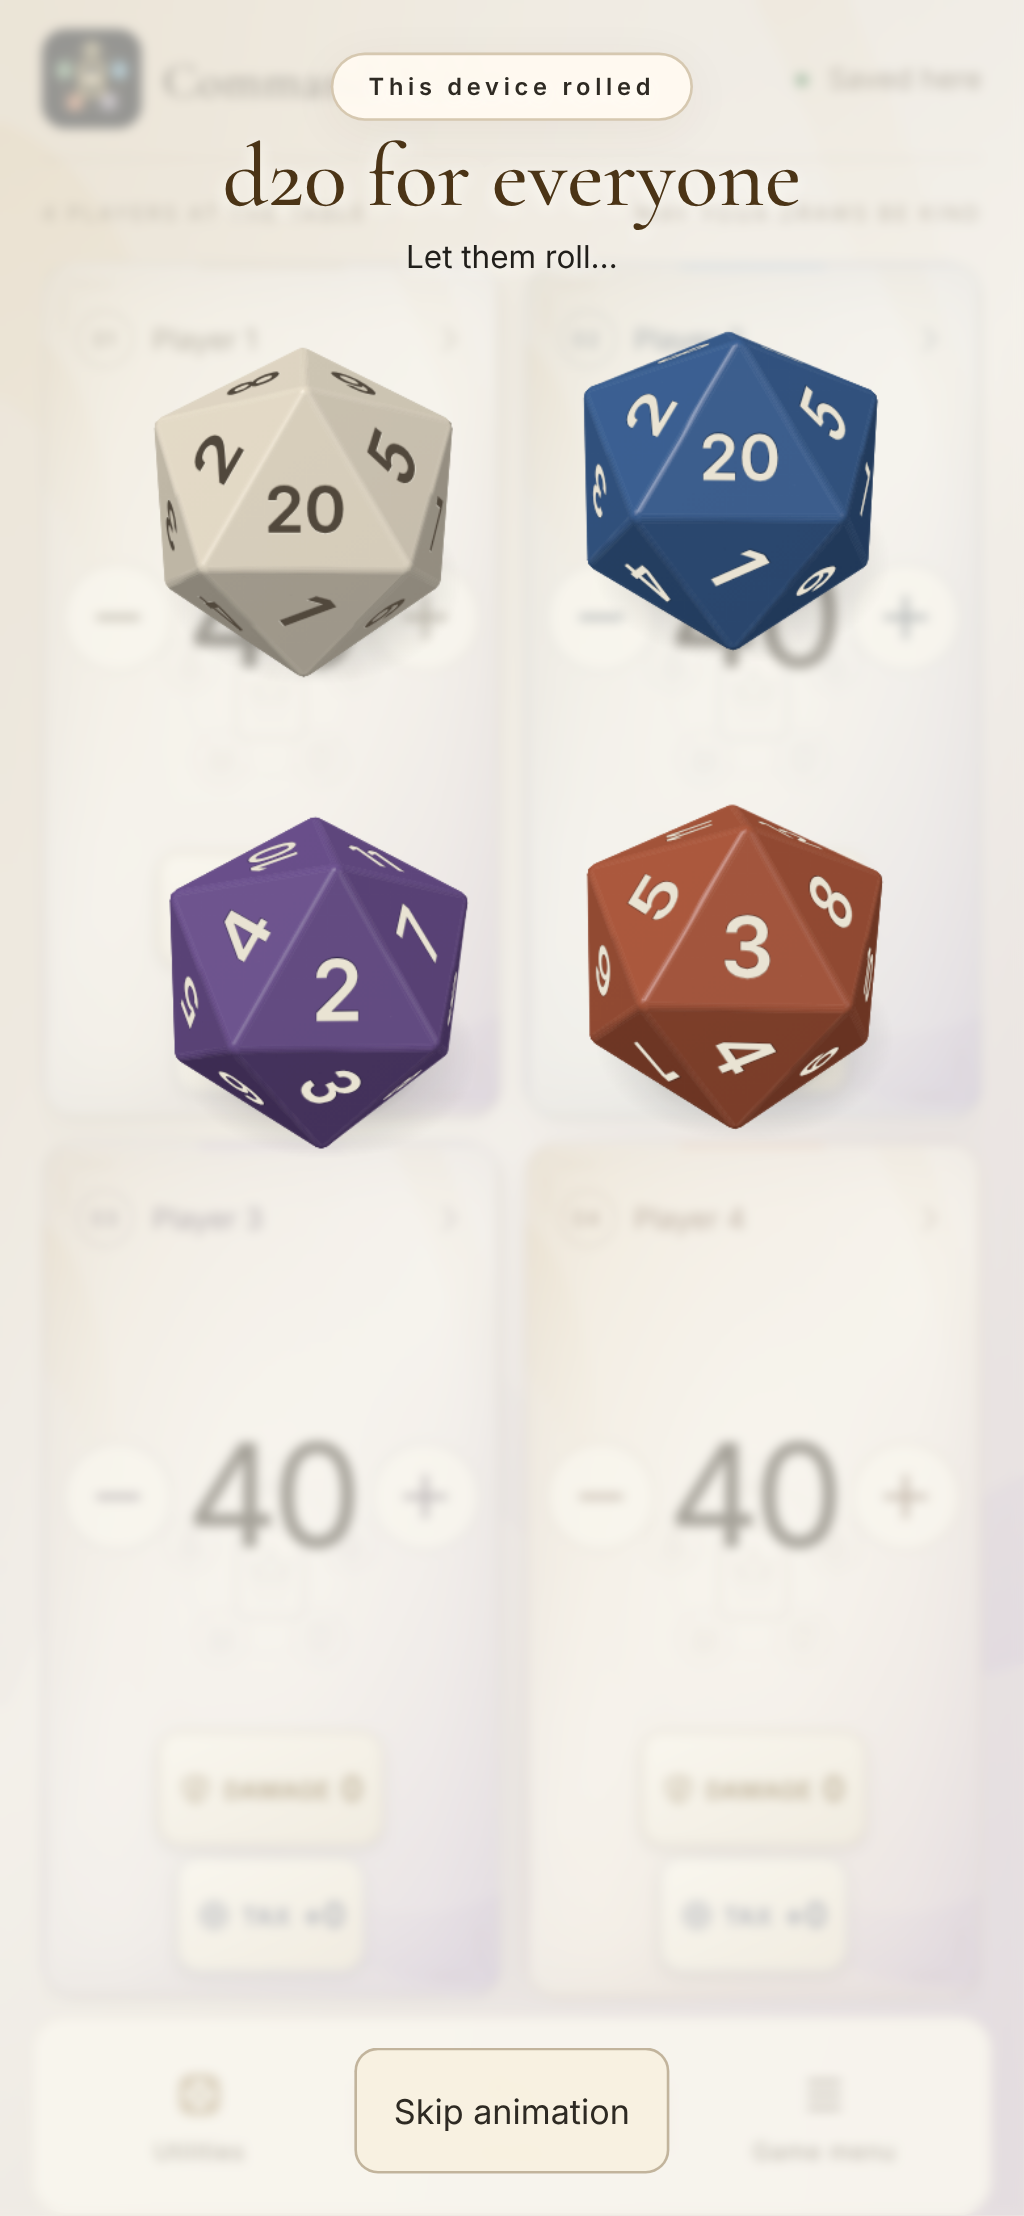
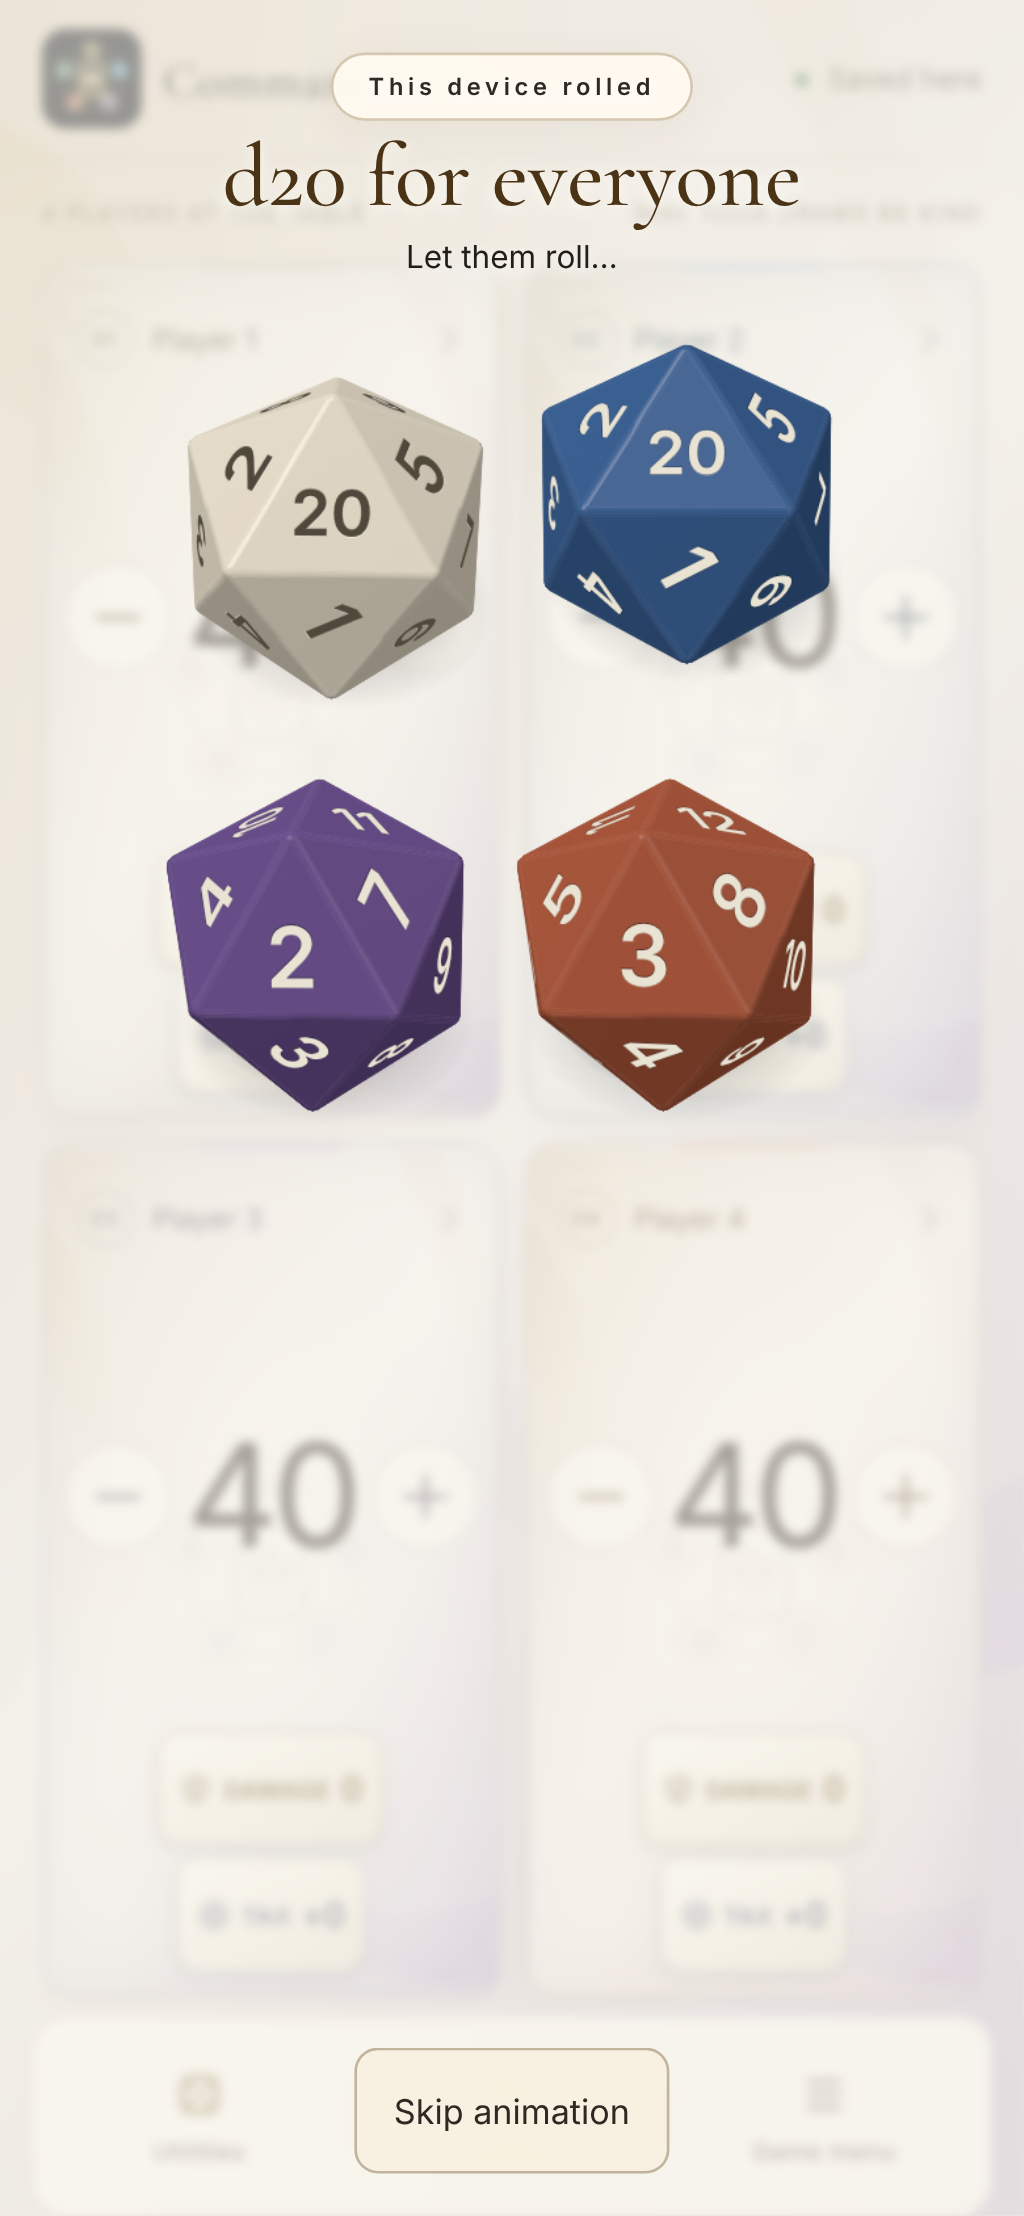
Document the second round of features
Claude-Session: https://claude.ai/code/session_0156PNCYR666aggbzWarFL9C

diff --git a/README.md b/README.md
@@ -100,15 +100,18 @@ Updates are applied when you run these commands or update through your Docker ma
 - **Planechase** (Utilities) builds one shared planar deck from every printed plane and phenomenon, or only the sets you pick: the classic Planechase cards, March of the Machine Commander, and Doctor Who. The current plane shows its art and full rules text, the **planar die** shows Blank, Chaos or Planeswalk and counts this turn's rolls so the next roll's cost is clear, and **Planeswalk** moves to the next plane. A chip on the board names the current plane. The host sets the deck up in a room; any seated player can roll and planeswalk. Rules text works offline; card art needs a connection.
 - **Optional trackers** (setup and Utilities) are off until the table wants them: per-player counters such as Energy, Experience, Rad, Tickets, The Ring and City’s blessing, or any name you type, plus the **Monarch**, **Initiative** and **Day and night** markers. A counter appears on a seat once it is above zero. In a room, players claim Monarch or Initiative for their own seat and the host can move or clear them.
 - **Utilities → Random opponent** picks one of the selected player's opponents still in the game, with the same saved-before-animation result as a die. **Utilities → Look up a card** reads any card by name or Scryfall link with its rules text and rulings.
-- **Record winner** (Game menu) saves who won, a team win, or a draw. The winner screen records it for you. **Playgroup stats** on Home and in the Game menu counts every finished game in this browser: games, wins and win rate per player and per commander, and average game length. Results can be corrected or removed, and the stats exported. Nothing leaves the browser.
-- **Saved players**: in a player's details, **Save to my regulars** keeps their name, color and commanders on this device. Pick a regular in setup or when joining a room to fill a seat in one tap; manage the list in Settings.
+- **Dungeons** (Utilities) keeps each player's place when they venture into the dungeon: **Lost Mine of Phandelver**, **Dungeon of the Mad Mage**, **Tomb of Annihilation**, and the **Undercity** for the initiative. Every room shows its rules text, the rooms you can move to next are marked, and completed dungeons are counted for the game. Players move their own marker in a room, and Undo steps back a room.
+- **Storm count & mana pool** (Utilities) is a scratchpad for a big turn: count spells cast for storm and track floating mana by color. It stays on your device, and with turn tracking on it clears itself when the turn passes.
+- **Life history** in a player's details lists that seat's life changes, newest first, with the time into the game.
+- **Record winner** (Game menu) saves who won, a team win, or a draw. The winner screen records it for you. **Playgroup stats** on Home and in the Game menu counts every finished game in this browser: games, wins and win rate per player and per commander, and average game length. Results can be corrected or removed, and the stats exported. **Import stats from another device** adds the games from an exported file without duplicating any already counted. Nothing leaves the browser.
+- **Saved players**: in a player's details, **Save to my regulars** keeps their name, color and commanders on this device. Pick a regular in setup or when joining a room to fill a seat in one tap; manage the list in Settings. In setup, **Shuffle seating** deals the players into a random seating order.
 - **Deck links**: paste a public **Archidekt** deck link in setup, when joining, or in player details to bring in its commander and artwork. Moxfield links are recognized, but Moxfield currently refuses automated readers, so the app says so and asks for the commander name instead.
 - **Seat background**: in player details, choose any card's art as that seat's background in place of the commander art (shared with the table), or a photo from this device (kept on this device only).
 - **Keyboard shortcuts** on a computer: **U** or **Ctrl+Z** undo, **N** next turn, **D** utilities, **M** game menu, **H** history, **?** settings, and **1–8** open a seat. They never fire while typing. The list is in Settings.
 - **New game** asks **One phone** or **Multiple phones** again and opens a fresh setup with default players, colors, commanders and settings. Previous player details do not carry over; choose a preset and starting life for the new table. Tap the **Command Table** logo for Home and the last ten unfinished local/shared games. **Resume** reopens the original local game with its names, totals, and history, or reconnects to a shared room using the current guest cookie.
 - **Eliminate player** (in a player's details) shows a short notice on every screen that fades back to the table by itself and never blocks a tap. When only one player is left in a game of two or more, a **winner screen** names them. Archenemy team victories remain shared and are announced on the board. On one device, or for the host of a shared room, it offers **Rematch** and **End game**; **Back to the table** keeps playing, and Undo or **Restore player** brings the eliminated player back. Elimination stays a manual decision: zero life, poison and commander-damage thresholds only show warnings.
 - **End game** offers **Rematch**, **End game** or **Cancel**. **Rematch** keeps the current player names, colors, commanders/artwork and shared seats, restores the configured starting life (including custom values), and clears counters, damage, commander casts, markers, elimination, turns, timer, dice and undo history. Names and commanders remain editable in player details. Choosing **End game** returns everyone to the starting options after the ending is saved. **Recently ended** keeps up to ten recent games available for 24 hours. **Reopen** restores the original totals, damage, commanders and history; the timer stays paused. In shared rooms, only the host can reopen play, and existing seat assignments remain intact. **View final game** lets you inspect a finished game and still use its dice. Starting another game does not remove the recovery entry. Expired recovery entries disappear; existing archives and server retention remain separate.
-- **Game menu → Share game recap** creates a PNG with player colors, names, commanders, life totals and game duration. During play it is marked **In progress**. For a final recap, end the game, choose **View final game** from Home, then open the recap. A recorded winner is preselected, and you can choose a different winner or draw for the image; the app never guesses a winner or changes the saved game. Once life totals have changed, the image includes a **life graph** of every player across the game. Use **Share image** where supported, or **Download PNG**. The image is generated on your device with no external artwork requests.
+- **Game menu → Share game recap** creates a PNG with player colors, names, commanders, life totals and game duration. During play it is marked **In progress**. For a final recap, end the game, choose **View final game** from Home, then open the recap. A recorded winner is preselected, and you can choose a different winner or draw for the image; the app never guesses a winner or changes the saved game. Once life totals have changed, the image includes a **life graph** of every player across the game. With turn tracking on, the recap also lists the **time each player spent on their turns** (per side when turns are shared); time while the timer is paused is left out. Use **Share image** where supported, or **Download PNG**. The image is generated on your device with no external artwork requests.
 - **Game menu** also offers history, settings, export/import, rematch, and archived local games. A rematch keeps room assignments and seat identities. A new shared setup creates a new room; previous unfinished rooms stay resumable. Local archives and the unfinished-game list are each bounded to ten stored entries.
 
 Exact life, recorded damage and cast corrections stay in their fields until saving is confirmed. A rejected correction keeps its draft for review and retry. In player details, **Artwork framing on this device** lets you move each saved commander’s crop without changing anyone else’s display.

diff --git a/BUILD_PLAN.md b/BUILD_PLAN.md
@@ -183,6 +183,10 @@ Named manual counters (Energy, Experience, Rad, Tickets, The Ring, City’s bles
 
 **Planechase** stores a shared `planechase` deck of plane IDs with a position, current plane, last die face and rolls this turn. `shufflePlanes` and `endPlanechase` are host table controls; `planarDie` and `planeswalk` belong to any seated player. Die faces are rolled by the reducer's caller the same way dice are (server-side in rooms). Plane names live in `src/shared/planeIndex.ts`; rules text and Scryfall IDs in `src/shared/planeCards.ts` load on demand. Regenerate both with `node scripts/generate-planes.mjs`.
 
+**Dungeons**: a player may carry `dungeon` (`id`, room position) and `dungeonsCompleted`. `venture` enters a dungeon, moves to a room the current one leads to, or completes the dungeon from its last room; `leaveDungeon` removes the marker. Both are own-seat commands. Room data lives in `src/shared/dungeons.ts`; regenerate it with `node scripts/generate-dungeons.mjs`.
+
+`turnTime` banks the milliseconds each turn holder has spent on their turns (pauses excluded) when the turn passes or the game ends; the recap groups it by side. The storm count and mana pool are a device-local scratchpad in session storage, not game state.
+
 `declareWinner` stores `result` (winners or a draw) on the game. `lifeLog` keeps up to 240 life snapshots for the recap graph. Finished games are summarized into a browser-local stats store; nothing is sent to the server.
 
 ### Undo, history, ending and rematches
@@ -449,7 +453,7 @@ Record each verification with its date, counts, failures and deployment state in
 
 ## 13. Not built: later additions
 
-Accounts and cross-device personal history; cloud sync of local games; full deck-list integrations beyond importing a commander; team formats beyond Archenemy and Two-Headed Giant; server-side or cross-device statistics; advanced mana, storm and phase tools; dungeon assistance; and multi-instance or network-filesystem hosting.
+Accounts and cross-device personal history; cloud sync of local games; full deck-list integrations beyond importing a commander; team formats beyond Archenemy and Two-Headed Giant; server-side or cross-device statistics; shared mana pools and phase tools; and multi-instance or network-filesystem hosting.
 
 Keep stable IDs, the shared domain, versioned storage and clear membership boundaries so these remain possible. Do not build speculative frameworks for them.
 

diff --git a/docs/testing.md b/docs/testing.md
@@ -2,6 +2,14 @@
 
 Entries record results and deployment state at the time of each check; historical `latest` digests and local-only status are not statements about the current release.
 
+## November 20 second round
+
+Adds the dungeon tracker (`venture`, `leaveDungeon`), per-player time on turns (`turnTime`), a life history, the device-local storm count and mana pool, shuffled seating and stats import. New game fields are optional, so earlier saves and rooms stay readable and no database migration is needed.
+
+ESLint, Prettier, TypeScript, the production build and all **299 unit/integration checks across 21 files** pass. The Chromium phone browser suite ran **130 cases**: 129 passed and the production offline case kept its existing environment guard. Four new cases cover the dungeon tracker, the storm count and mana pool, life history with time on turns, and shuffled seating with stats import, with automated accessibility checks on the new sheets. WebKit runs in the hosted checks.
+
+This updates source without creating a release tag or publishing Docker images.
+
 ## November 20 review improvements and new features
 
 This source update adds the items from the November review: faster long holds, host group life in rooms, keyboard shortcuts, a random opponent picker, a life graph in the recap, read-only spectator links, redo after your own undo in rooms, an in-app QR scanner, recorded winners with browser-local playgroup stats, saved players, optional trackers with Day/Night, a per-turn clock, Two-Headed Giant, Planechase, any-card lookup, seat backgrounds and commander import from deck links. SQLite moves to schema 4 (`watch_code`).

diff --git a/docs/assets.md b/docs/assets.md
@@ -32,6 +32,8 @@ Archenemy scheme names and rules text in `src/shared/schemeCards.ts` were genera
 
 Plane and phenomenon names, rules text and Scryfall IDs in `src/shared/planeIndex.ts` and `src/shared/planeCards.ts` were generated from Scryfall's oracle data by `scripts/generate-planes.mjs` and belong to Wizards of the Coast. Planechase shows each card's Scryfall art when online and keeps the text readable offline.
 
+Dungeon names, rooms and rules text in `src/shared/dungeons.ts` were generated the same way by `scripts/generate-dungeons.mjs` (`t:dungeon`); Baldur's Gate Wilderness is left out because it has no printed paths.
+
 The in-app QR scanner uses the browser's `BarcodeDetector` where available and otherwise loads [jsQR](https://github.com/cozmo/jsQR) (Apache-2.0) on demand. Deck links read public deck data from [Archidekt](https://archidekt.com); only the commander's name and Scryfall ID are used.
 
 The production service worker keeps a separate, bounded cache for viewed public art images; private game APIs are never cached. New searches and uncached images require internet access. Missing art leaves the normal counter usable. See [Scryfall API usage and attribution](https://scryfall.com/docs/api), [image formats](https://scryfall.com/docs/api/images), and [rate limits](https://scryfall.com/docs/api/rate-limits).

diff --git a/docs/progress.md b/docs/progress.md
@@ -2,6 +2,10 @@
 
 [BUILD_PLAN.md](../BUILD_PLAN.md) describes the product and implementation as built; the original September 15 specification remains in its Git history.
 
+## November 20 second round
+
+Adds a dungeon tracker, a storm count and mana pool for the current turn, a life history for each seat, time on turns in the recap, shuffled seating in setup, and stats import from another device. Awaits a new Docker release.
+
 ## November 20 review improvements and new features
 
 The source now includes Two-Headed Giant, Planechase, optional trackers, a turn clock, recorded winners and playgroup stats, saved players, any-card lookup, seat backgrounds, commander import from Archidekt deck links, spectator links, an in-app QR scanner, redo in rooms, host group life, keyboard shortcuts, a random opponent picker and a life graph in the recap. It awaits a new Docker release; see the [verification record](testing.md).
